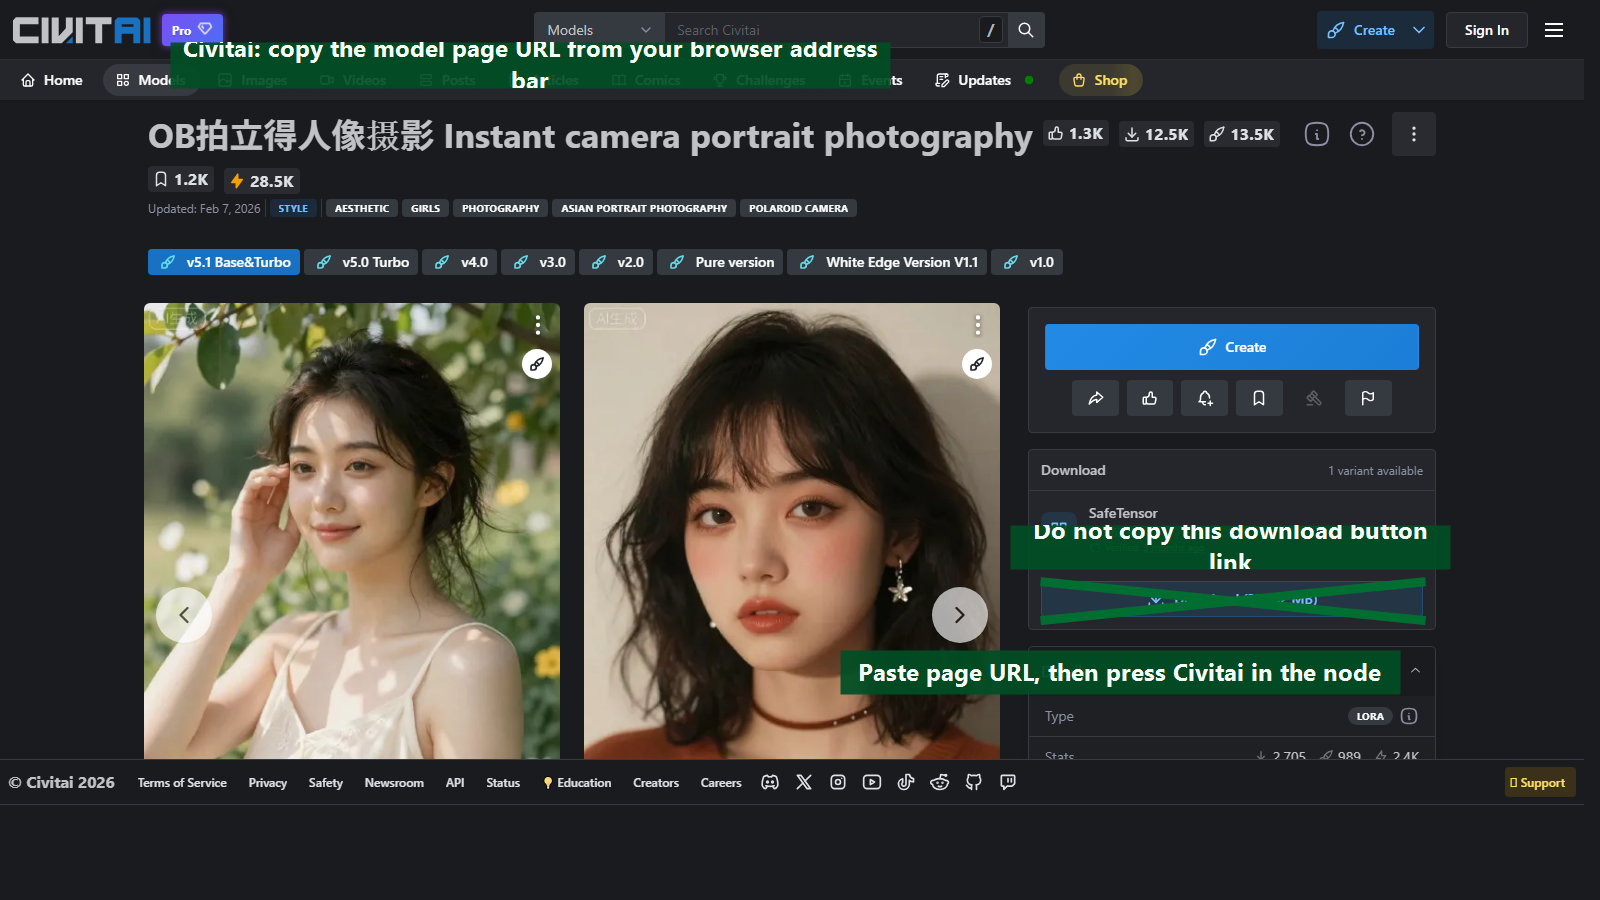
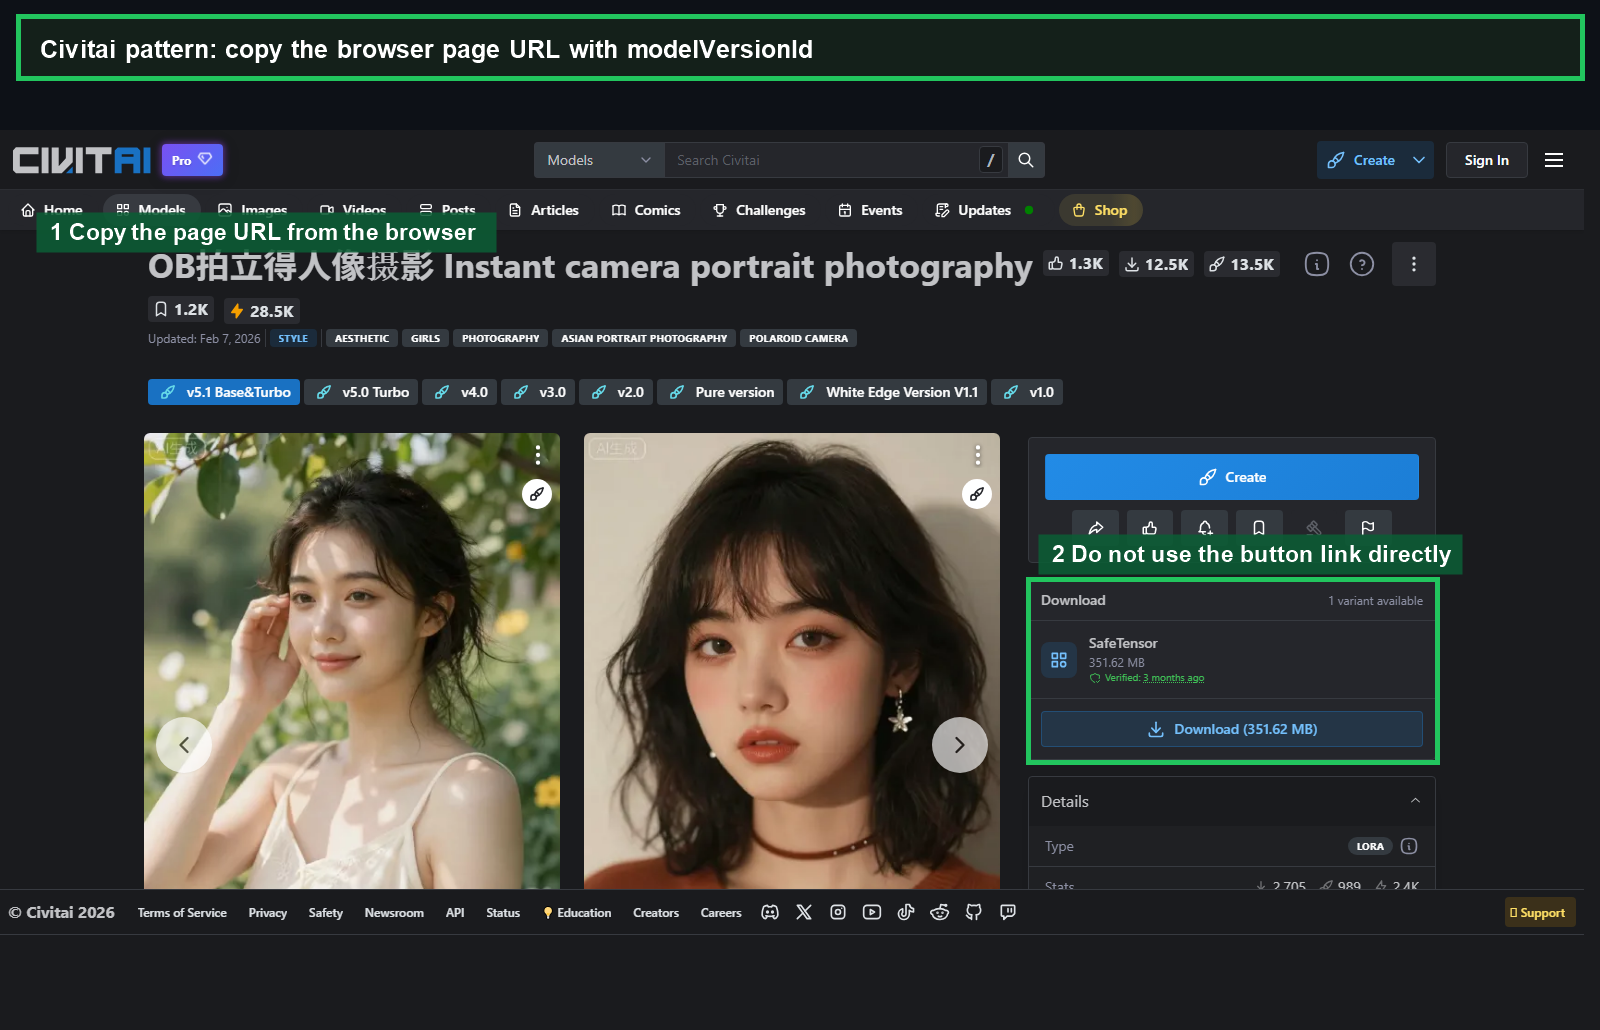
docs: use approved easy helper link guide images [skip ci]

diff --git a/README.md b/README.md
@@ -93,14 +93,16 @@ Main features:
 
 Creator preset link guide:
 
-- Hugging Face: right-click the small download icon next to the target file, copy the link address, then paste it into the preset `URL` field.
+- Hugging Face: right-click the small download icon next to the target file, choose `Copy link address`, then paste that direct file URL into the preset `URL` field.
 - Civitai: copy the model page URL from the browser address bar, paste it into the preset `URL` field, then press the `Civitai` button in the editor to fill the filename.
-- Do not use the Civitai blue `Download` button link as the preset URL unless you intentionally want to provide a direct API download link.
-- `File name` is used for the target path check. It does not have to match the URL text exactly, especially for Civitai API links.
+- For Civitai pages, do not copy the blue `Download` button link unless you intentionally want to provide a direct API download URL.
+- `File name` is used only for the target-path check. It does not have to match the URL text exactly, especially for Civitai/API links.
 
 ![Hugging Face link guide](docs/images/easy-model-download-helper-huggingface-link.png)
 
-![Civitai link guide](docs/images/easy-model-download-helper-civitai-link.png)
+![Civitai page URL guide](docs/images/easy-model-download-helper-civitai-link.png)
+
+![Civitai preset editor guide](docs/images/easy-model-download-helper-civitai-node.png)
 
 ### `(Deno) LTX Multi LoRA Loader`
 
